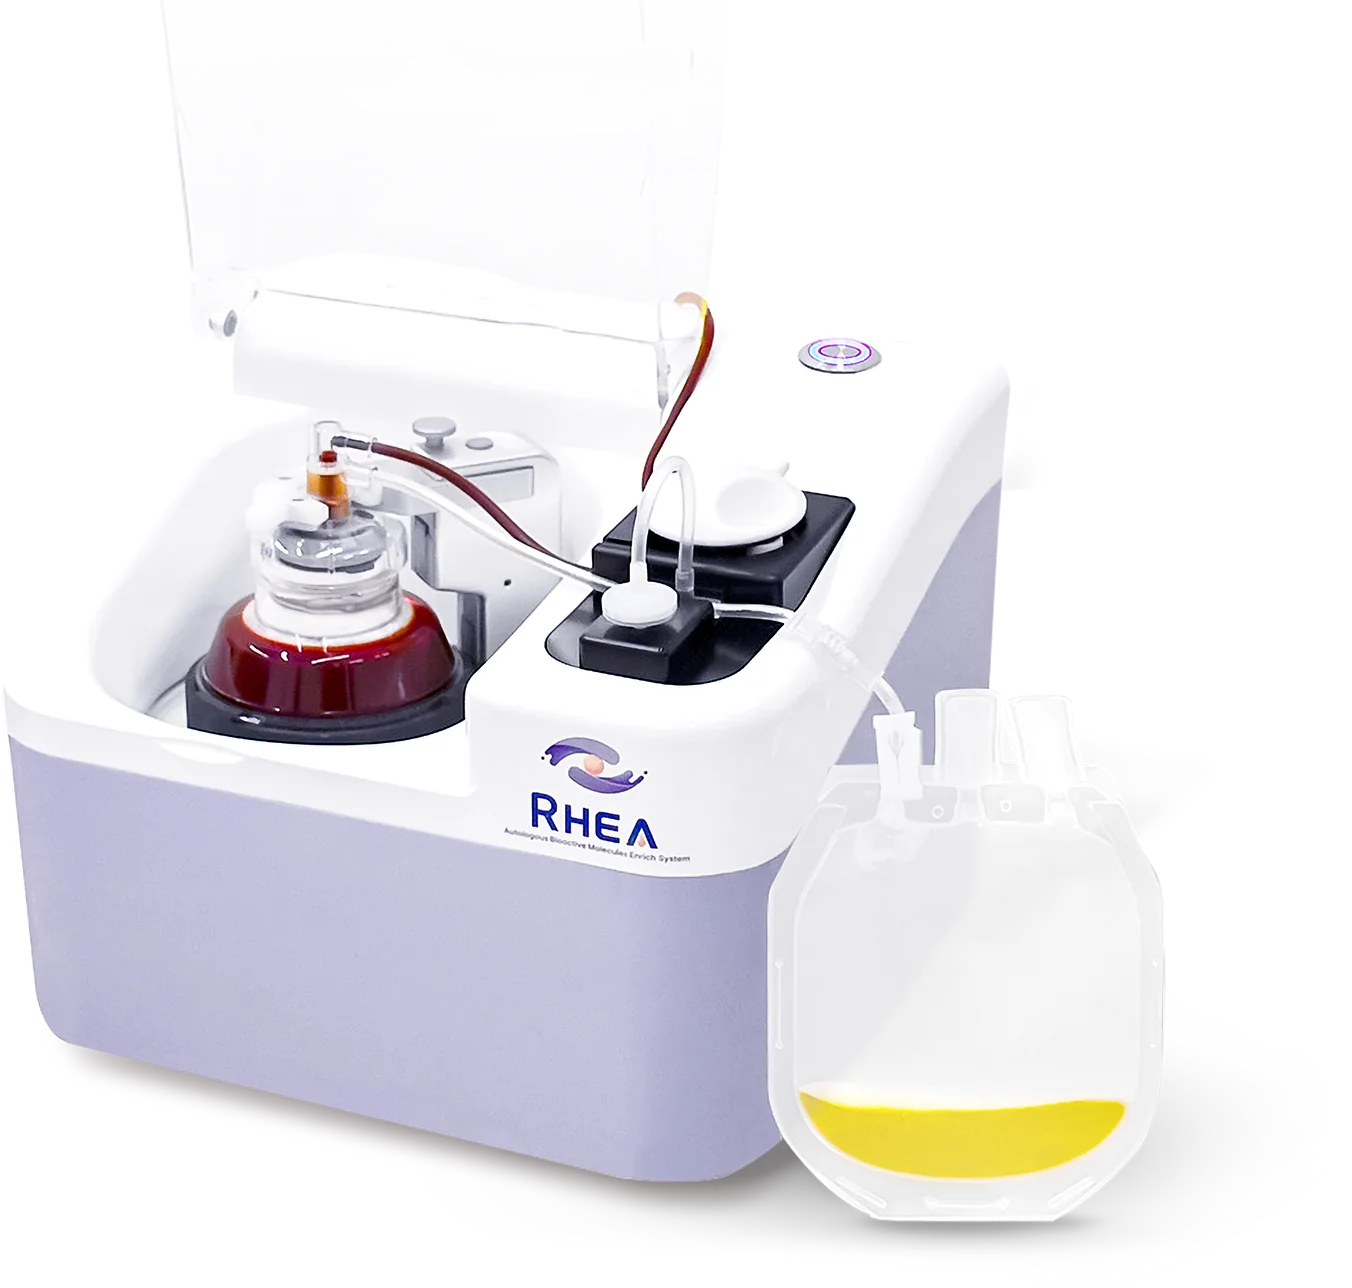
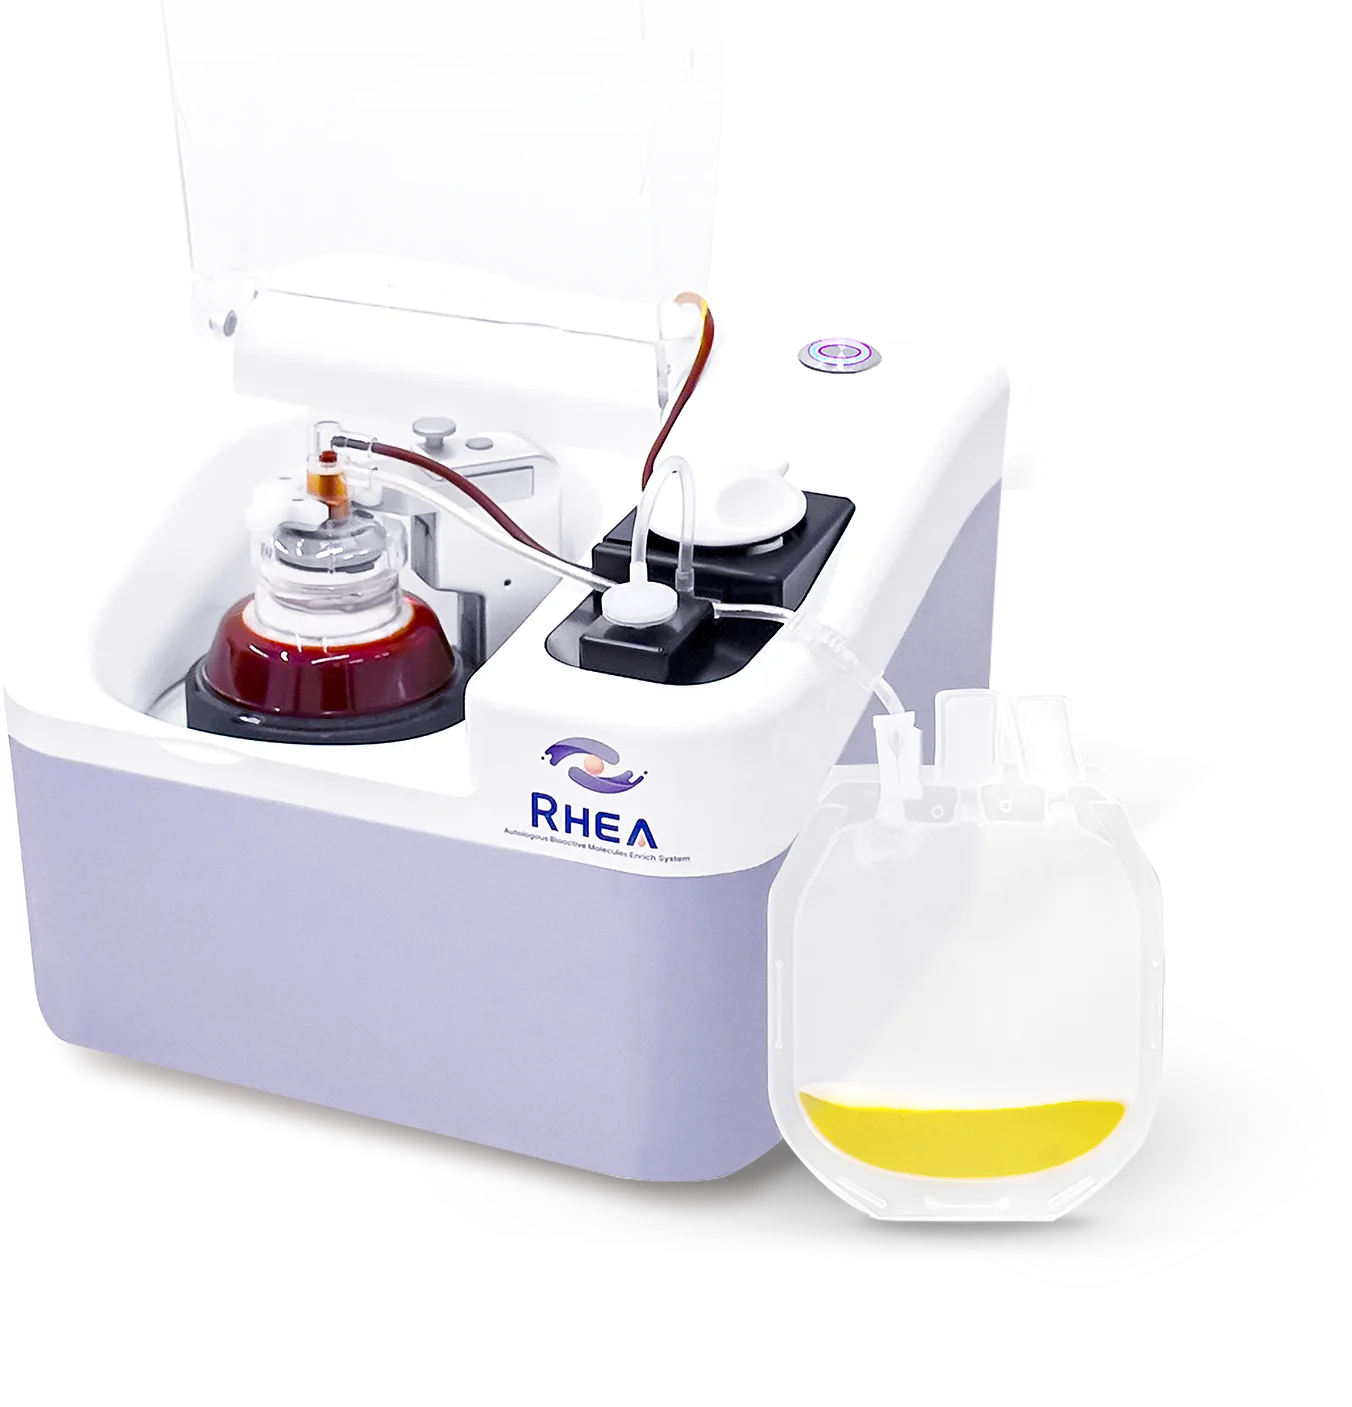
Rhea 히어로 이미지를 이전과 같은 배율로 다시 변환
Claude-Session: https://claude.ai/code/session_011m2VfMbVd8JvaP3qoxVDuP

Changed region(s): [[0.0, 0.1863, 0.8698, 0.9627], [0.5902, 0.2174, 0.6524, 0.3106], [0.1553, 0.2174, 0.1864, 0.2795]]

diff --git a/index.html b/index.html
@@ -312,7 +312,7 @@
   <section class="visual" id="visual" aria-roledescription="carousel" aria-label="제품 소개">
     <div class="slide s2 is-active is-first" aria-roledescription="slide" aria-label="1 / 2">
       <div class="bg"></div>
-      <div class="pic-box"><picture><source media="(max-width:1023px)" srcset="img/web/hero-rhea-mo.webp"><img class="pic" src="img/web/hero-rhea-pc.webp" alt="Rhea 장비" width="1352" height="1288" fetchpriority="high" decoding="async"></picture></div>
+      <div class="pic-box"><picture><source media="(max-width:1023px)" srcset="img/web/hero-rhea-mo.webp"><img class="pic" src="img/web/hero-rhea-pc.webp" alt="Rhea 장비" width="1352" height="1407" fetchpriority="high" decoding="async"></picture></div>
       <div class="txt_box">
         <p class="tit fade-up"><span class="en">Rhea</span><br>폐쇄형 백 농축 시스템</p>
         <p class="desc fade-up">백(Bag) 기반의 폐쇄형 구성으로<br>대용량 시술에 맞춘 워크플로우를 제공합니다</p>
